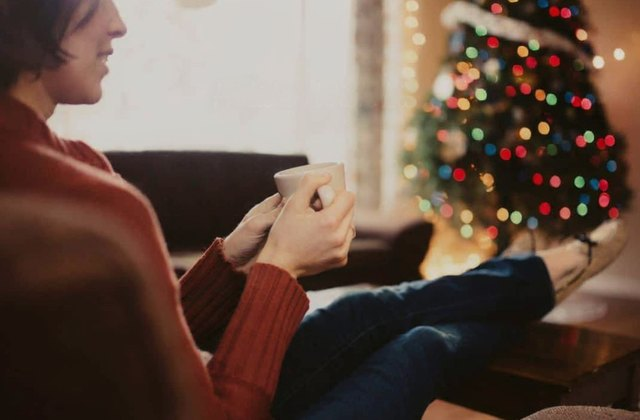
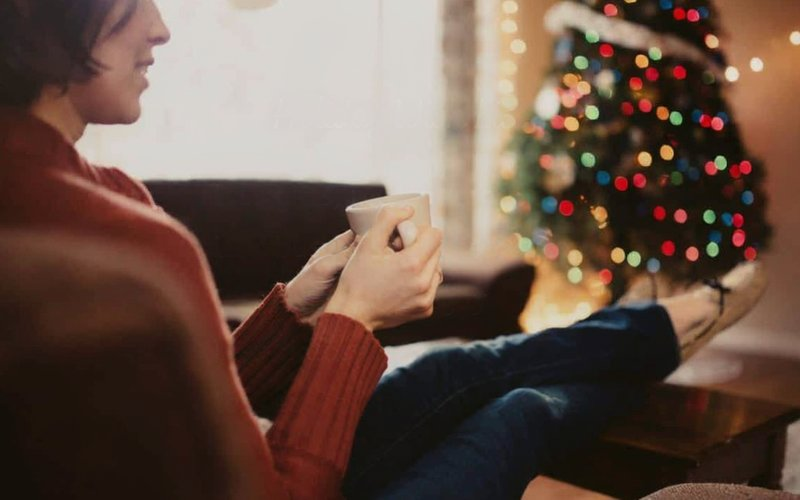
blog: 栏目页回归统一版式（与午报晚报同一套 hero）

diff --git a/blog/index.html b/blog/index.html
@@ -35,31 +35,6 @@
   .hero h1 { font-size: 26px; letter-spacing: 2px; margin: 0; }
   .hero p { margin: 6px 0 0; color: #c8c5bc; font-size: 14px; }
   @media (max-width: 640px) { .hero img { height: 150px; } }
-  .hero-full {
-    border-radius: 20px;
-    overflow: hidden;
-    margin: 22px 0 0;
-    background: #22221f;
-  }
-  .hero-full img {
-    display: block;
-    width: 100%;
-    height: 300px;
-    object-fit: cover;
-    object-position: center 34%;
-  }
-  .hero-title {
-    margin: 20px 0 34px;
-    padding-bottom: 18px;
-    border-bottom: 1px solid #2e2d29;
-  }
-  .hero-title h1 { font-size: 33px; margin: 0; }
-  .hero-title p { margin: 9px 0 0; color: #a8a49a; font-size: 14.5px; }
-  @media (max-width: 640px) {
-    .hero-full img { height: 190px; }
-    .hero-title { margin: 16px 0 26px; padding-bottom: 14px; }
-    .hero-title h1 { font-size: 26px; }
-  }
   .wrap { max-width: 720px; margin: 0 auto; }
   a.back { color: #8a877f; text-decoration: none; font-size: 14px; }
   a.back:hover { color: #c8c5bc; }
@@ -107,12 +82,12 @@
 <body>
   <div class="wrap">
     <a class="back" href="../">← 返回首页</a>
-    <div class="hero-full">
-      <img src="../assets/card-blog6.jpg" alt="当期封面">
-    </div>
-    <div class="hero-title">
-      <h1>每日博客</h1>
-      <p>每天一篇，最新一期在最上面</p>
+    <div class="hero">
+      <img src="../assets/card-blog4.jpg" alt="当期封面">
+      <div class="hero-text">
+        <h1>每日博客</h1>
+        <p>每天一篇，最新一期在最上面</p>
+      </div>
     </div>
     <a class="item newest" href="2026-11-16T1151-wb.html">
       <h2>2026-11-16 每日博客</h2>
